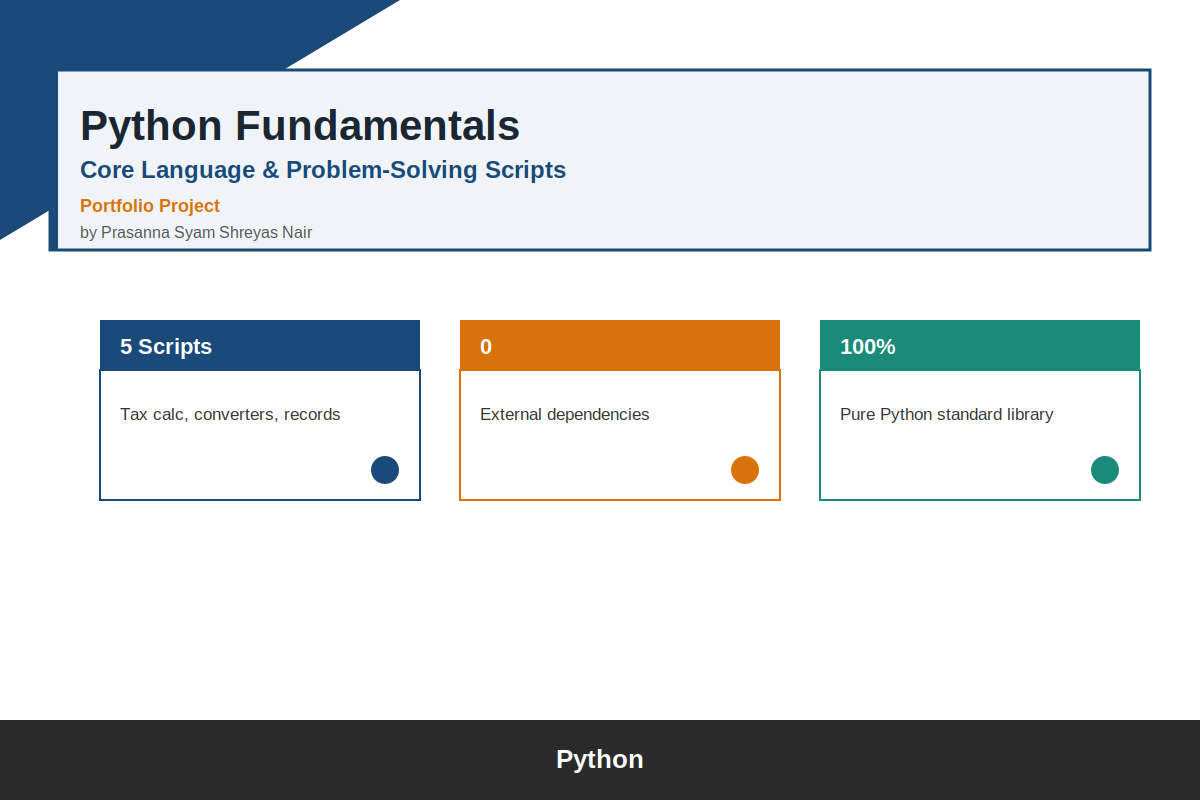
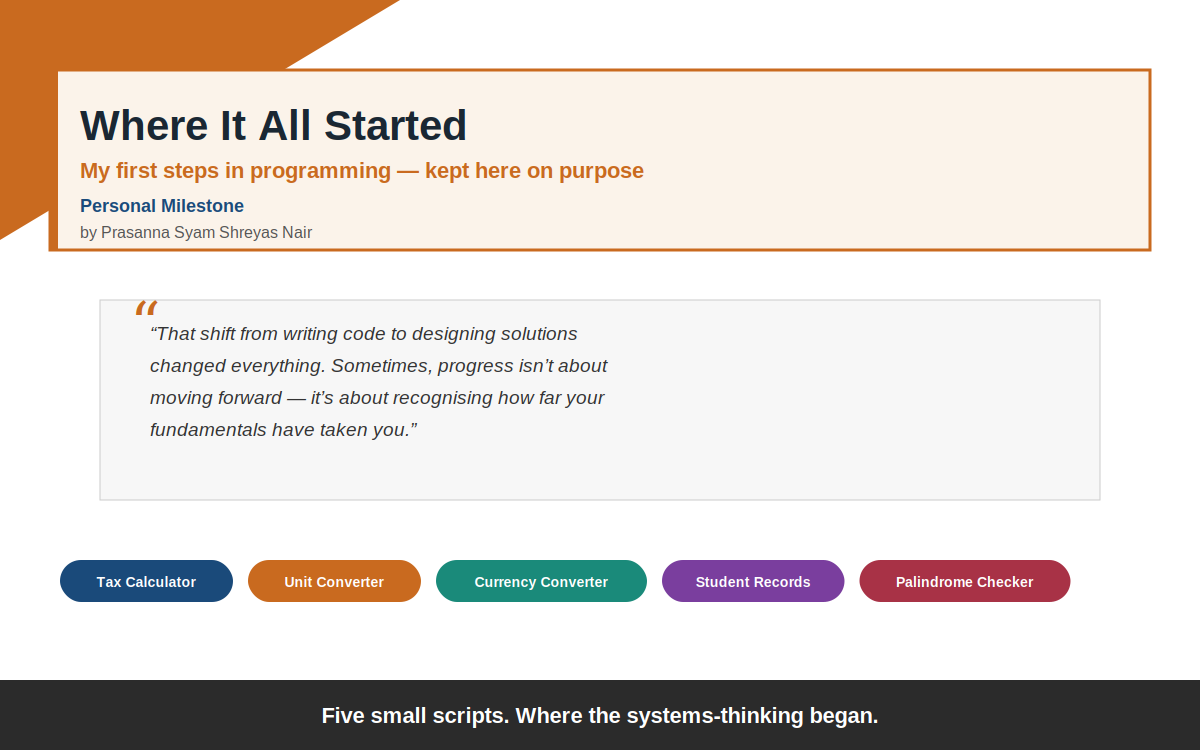
Reframe as an intentional origin-story piece, not a skill showcase

diff --git a/README.md b/README.md
@@ -1,8 +1,16 @@
 # Python Fundamentals
 
-![Project Overview](docs/images/0_project_overview.png)
+![Where It All Started](docs/images/0_project_overview.png)
 
-A set of small, self-contained Python scripts covering core language and problem-solving fundamentals — written with detailed inline explanations of *why* each step is done, not just *what*.
+## Why this is here
+
+These five scripts are intentionally basic. A tax calculator, a unit converter, a currency converter, a student record system, a palindrome checker — nothing here is meant to show off advanced skill. It's the opposite: this repo stays exactly as simple as it started.
+
+Revisiting these reminded me why I got into Business Analytics and Python in the first place. Modelling a real tax system, managing structured records, converting units, checking patterns — these weren't just exercises. They were my first exposure to thinking in systems: breaking a problem into logic, handling edge cases, validating inputs, making sure the output could actually be trusted.
+
+That shift — from writing code to designing solutions — is what shaped how I approach problem-solving, scalability, and clarity in analytics today. So this repo isn't here to impress. It's here as a marker of where that started, and a reminder that progress isn't always about moving forward — sometimes it's about recognising how far your fundamentals have taken you.
+
+## The scripts
 
 | Script | What it does |
 |---|---|
